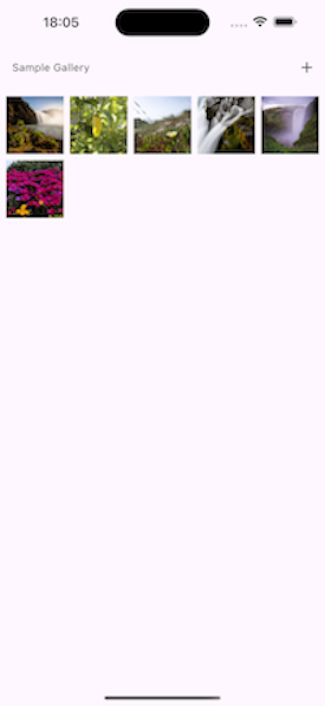
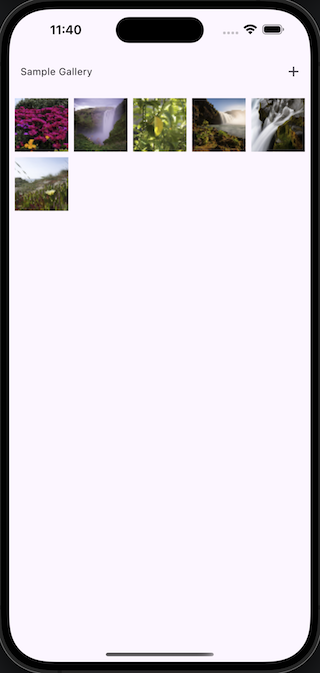
update

Changed region(s): [[0.0, 0.0, 1.0, 1.0]]

diff --git a/example/lib/ui/network_image_gallery.dart b/example/lib/ui/network_image_gallery.dart
@@ -49,7 +49,7 @@ class _NetworkImageGalleryState extends State<NetworkImageGallery> {
             );
           },
           detailDecoration: DetailDecoration(
-            backgroundBuilder: (context) => ColoredBox(color: Colors.yellow),
+            backgroundBuilder: (context) => ColoredBox(color: Colors.white),
             headerBuilder: _buildHeaderDetail,
             footerBuilder: _buildFooterDetail,
             detailBuilder: (context, item, itemSize, viewSize) {
@@ -88,12 +88,15 @@ class _NetworkImageGalleryState extends State<NetworkImageGallery> {
     NetworkImage image,
     PageController controller,
   ) {
-    return ColoredBox(
-      color: Colors.red,
-      child: Center(
-        child: Text(
-          'This is Footer',
-          style: TextStyle(fontSize: 35, color: Colors.white),
+    return Material(
+      color: Colors.black54,
+      child: SizedBox(
+        height: 86,
+        child: Center(
+          child: Text(
+            'This is Footer',
+            style: TextStyle(fontSize: 35, color: Colors.white),
+          ),
         ),
       ),
     );
@@ -105,23 +108,26 @@ class _NetworkImageGalleryState extends State<NetworkImageGallery> {
     NetworkImage image,
     PageController controller,
   ) {
-    return ColoredBox(
-      color: Colors.red,
-      child: Column(
-        children: [
-          IconButton(
-            onPressed: () {
-              Navigator.of(context).pop();
-            },
-            icon: Icon(Icons.arrow_back),
-          ),
-          Expanded(
-            child: Text(
-              'This is Header',
-              style: TextStyle(fontSize: 20, color: Colors.white),
+    return Material(
+      color: Colors.black54,
+      child: SizedBox(
+        height: 86,
+        child: Column(
+          children: [
+            IconButton(
+              onPressed: () {
+                Navigator.of(context).pop();
+              },
+              icon: Icon(Icons.arrow_back),
             ),
-          ),
-        ],
+            Expanded(
+              child: Text(
+                'This is Header',
+                style: TextStyle(fontSize: 20, color: Colors.white),
+              ),
+            ),
+          ],
+        ),
       ),
     );
   }

diff --git a/example/lib/ui/local_image_gallery.dart b/example/lib/ui/local_image_gallery.dart
@@ -41,6 +41,11 @@ class _LocalImageGalleryState extends State<LocalImageGallery> {
           _buildHeader(),
           Expanded(
             child: SimpleGallery<String>(
+              crossAxisCount: 5,
+              crossAxisSpacing: 8.0,
+              mainAxisSpacing: 8.0,
+              childAspectRatio: 1.0,
+              padding: const EdgeInsets.all(8.0),
               items: imageFiles,
               itemSize: (item) => getLocalImageSize(item),
               itemBuilder: (context, item, itemSize, viewSize) {

diff --git a/README.md b/README.md
@@ -76,7 +76,7 @@ Note:
 > `itemSize` is the size of widget, it is required for Hero animation and cache image.
 
 
-![Simple Gallery Demo](demo_image/basic_usage_demo.gif?raw=true "Simple Gallery Basic Demo")
+![Simple Gallery Demo](demo_image/app_demo.gif?raw=true "Simple Gallery Basic Demo")
 
 
 ## Show difference type of widget
